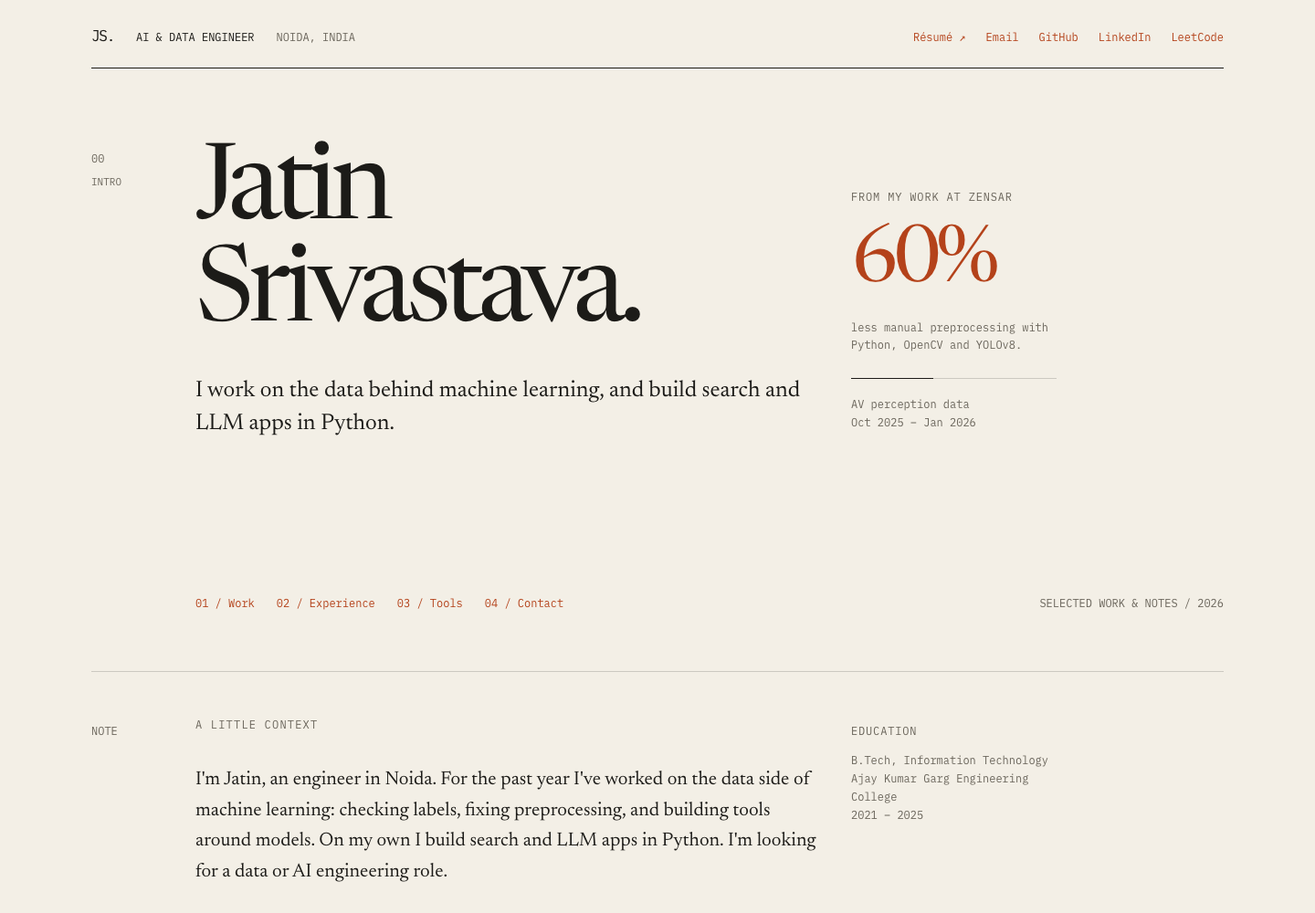
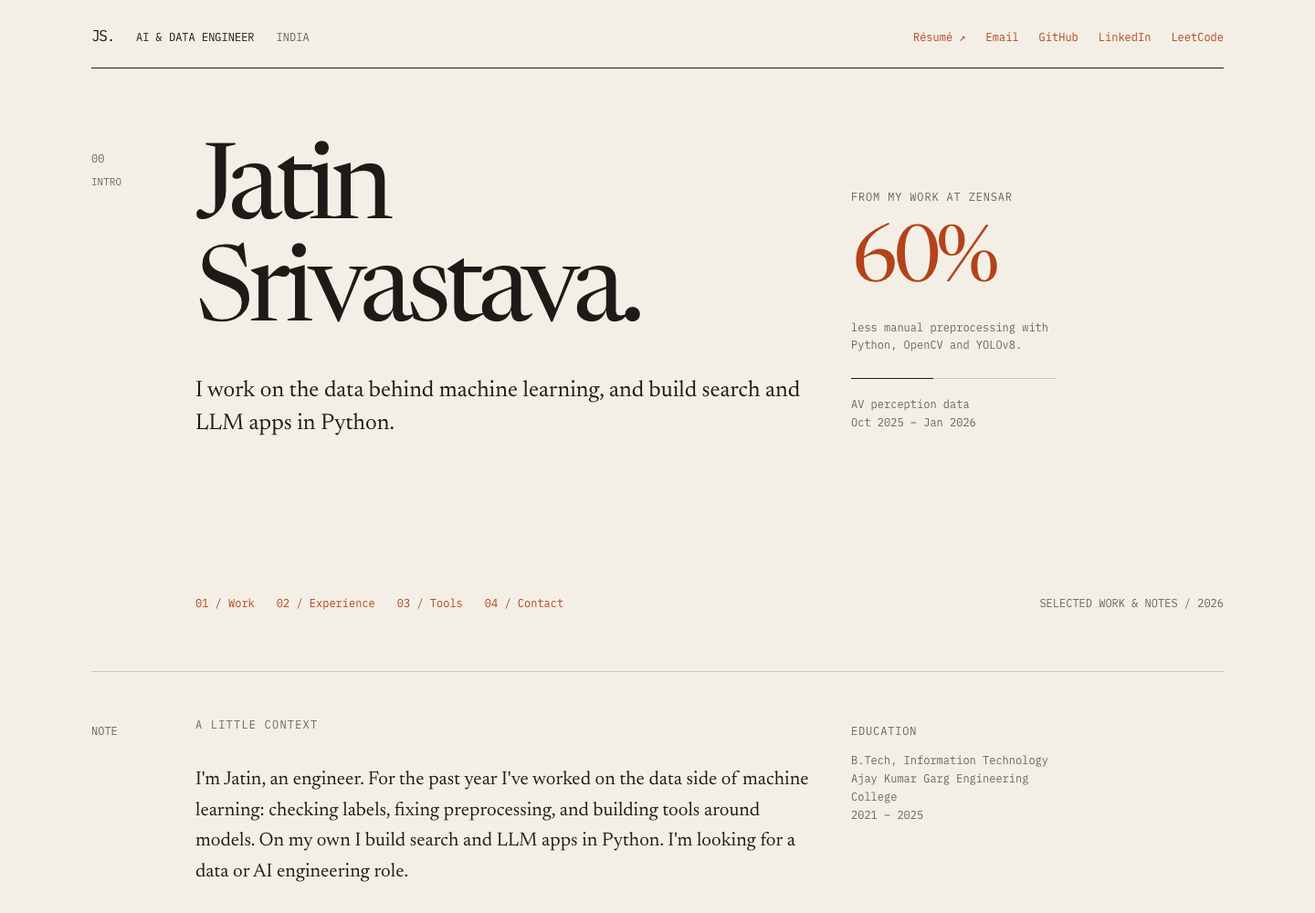
Remove Veltrix project and city references

Changed region(s): [[0.1562, 0.837, 0.625, 0.961]]

diff --git a/index.html b/index.html
@@ -4,11 +4,11 @@
   <meta charset="utf-8">
   <meta name="viewport" content="width=device-width, initial-scale=1">
   <title>Jatin Srivastava | AI &amp; Data Engineer</title>
-  <meta name="description" content="AI and data engineer in Noida. Selected work in computer vision, data validation, retrieval and LLM applications.">
+  <meta name="description" content="AI and data engineer. Selected work in computer vision, data validation, retrieval and LLM applications.">
   <meta name="theme-color" content="#f3efe6" media="(prefers-color-scheme: light)">
   <meta name="theme-color" content="#171613" media="(prefers-color-scheme: dark)">
   <meta property="og:title" content="Jatin Srivastava | AI &amp; Data Engineer">
-  <meta property="og:description" content="AI and data engineer in Noida. Selected work in computer vision, data validation, retrieval and LLM applications.">
+  <meta property="og:description" content="AI and data engineer. Selected work in computer vision, data validation, retrieval and LLM applications.">
   <meta property="og:type" content="website">
   <meta property="og:url" content="https://jatinsri25.github.io/">
   <meta property="og:site_name" content="Jatin Srivastava">
@@ -23,7 +23,7 @@
 <a class="skip-link" href="#main">Skip to content</a>
 <div class="sheet">
 <header class="site-header">
-  <div class="identity"><a class="initials" href="/" aria-label="JS. Jatin Srivastava, home">JS.</a><span>AI &amp; DATA ENGINEER</span><span class="location">NOIDA, INDIA</span></div>
+  <div class="identity"><a class="initials" href="/" aria-label="JS. Jatin Srivastava, home">JS.</a><span>AI &amp; DATA ENGINEER</span><span class="location">INDIA</span></div>
   <nav aria-label="Profile links">
     <a href="/assets/jatin-srivastava-resume.pdf">Résumé <span aria-hidden="true">↗</span></a>
     <a href="mailto:srivastavajatin9898@gmail.com">Email</a>
@@ -41,7 +41,7 @@
 </section>
 <section class="section grid" id="about" aria-labelledby="about-heading">
   <div class="index">NOTE</div>
-  <div class="main-col"><h2 class="eyebrow section-heading" id="about-heading">A little context</h2><p class="intro">I'm Jatin, an engineer in Noida. For the past year I've worked on the data side of machine learning: checking labels, fixing preprocessing, and building tools around models. On my own I build search and LLM apps in Python. I'm looking for a data or AI engineering role.</p></div>
+  <div class="main-col"><h2 class="eyebrow section-heading" id="about-heading">A little context</h2><p class="intro">I'm Jatin, an engineer. For the past year I've worked on the data side of machine learning: checking labels, fixing preprocessing, and building tools around models. On my own I build search and LLM apps in Python. I'm looking for a data or AI engineering role.</p></div>
   <aside class="note"><span class="note-label">Education</span><p>B.Tech, Information Technology<br>Ajay Kumar Garg Engineering College<br>2021 – 2025</p></aside>
 </section>
 <section class="section" id="projects" aria-labelledby="work-heading">
@@ -81,35 +81,24 @@
       </aside>
     </article><article class="project grid small-project">
       <div class="index project-number">04</div>
-      <div class="main-col"><p class="eyebrow">Agents / retrieval</p>
-        <h3><a href="/work/veltrix-ai.html">Veltrix AI <span aria-hidden="true">↗</span></a></h3>
-        <p class="project-text">I built a RAG app where agents share retrieval and reasoning work, with 95% retrieval accuracy across 10,000 documents and 60% less manual debugging.</p>
-        <p class="stack">LangChain, LangGraph, FAISS</p>
-        <div class="link-row"><a href="/work/veltrix-ai.html">Read project notes →</a><a href="https://github.com/jatinsri25">GitHub ↗</a></div>
-      </div>
-      <aside class="note"><span class="note-label">Field note / 04</span><p>Independent project. Evaluation figures from my project summary.</p>
-
-      </aside>
-    </article><article class="project grid small-project">
-      <div class="index project-number">05</div>
       <div class="main-col"><p class="eyebrow">Application engineering</p>
         <h3><a href="/work/ai-task-generator.html">AI Task Generator <span aria-hidden="true">↗</span></a></h3>
         <p class="project-text">I built an LLM task manager with Redis caching, p95 latency below 200 ms, and 95% test coverage in GitHub Actions.</p>
         <p class="stack">MERN, Gemini API, Redis, GitHub Actions</p>
         <div class="link-row"><a href="/work/ai-task-generator.html">Read project notes →</a><a href="https://github.com/jatinsri25/AI-todo-app/tree/main/TODO">GitHub ↗</a></div>
       </div>
-      <aside class="note"><span class="note-label">Field note / 05</span><p>Also listed as AI-Powered Task Manager in my earlier portfolio.</p>
+      <aside class="note"><span class="note-label">Field note / 04</span><p>Also listed as AI-Powered Task Manager in my earlier portfolio.</p>
 
       </aside>
     </article><article class="project grid small-project">
-      <div class="index project-number">06</div>
+      <div class="index project-number">05</div>
       <div class="main-col"><p class="eyebrow">Earlier work / real-time systems</p>
         <h3><a href="/work/quirkquack.html">QuirkQuack <span aria-hidden="true">↗</span></a></h3>
         <p class="project-text">I built a chat app with JWT-secured WebSocket connections and Redis Pub/Sub, handling 100+ concurrent connections with message delivery below 50 ms.</p>
         <p class="stack">React.js, Node.js, Socket.IO, MongoDB, Redis, JWT</p>
         <div class="link-row"><a href="/work/quirkquack.html">Read project notes →</a><a href="https://github.com/jatinsri25/QuirkQuack">GitHub ↗</a></div>
       </div>
-      <aside class="note"><span class="note-label">Field note / 06</span><p>Retained from my earlier portfolio and AI engineer résumé.</p>
+      <aside class="note"><span class="note-label">Field note / 05</span><p>Retained from my earlier portfolio and AI engineer résumé.</p>
 
       </aside>
     </article></div>
@@ -137,6 +126,6 @@
   <aside class="note"><span class="note-label">For a closer look</span><p><a href="/assets/jatin-srivastava-resume.pdf">Download my résumé (PDF)</a></p><p><a href="https://drive.google.com/file/d/19HStCQF_2NlCMDRQBuClxfxfMSFu_k2V/view?usp=sharing">Original Drive résumé ↗</a></p></aside>
 </section>
 </main>
-<footer class="site-footer"><span>Jatin Srivastava · Noida, India</span><div class="link-row"><a href="/links.html">Link index</a><a href="#top">Back to top ↑</a></div></footer></div>
+<footer class="site-footer"><span>Jatin Srivastava · India</span><div class="link-row"><a href="/links.html">Link index</a><a href="#top">Back to top ↑</a></div></footer></div>
 </body>
 </html>

diff --git a/work/quirkquack.html b/work/quirkquack.html
@@ -23,7 +23,7 @@
 <a class="skip-link" href="#main">Skip to content</a>
 <div class="sheet">
 <header class="site-header">
-  <div class="identity"><a class="initials" href="/" aria-label="JS. Jatin Srivastava, home">JS.</a><span>AI &amp; DATA ENGINEER</span><span class="location">NOIDA, INDIA</span></div>
+  <div class="identity"><a class="initials" href="/" aria-label="JS. Jatin Srivastava, home">JS.</a><span>AI &amp; DATA ENGINEER</span><span class="location">INDIA</span></div>
   <nav aria-label="Profile links">
     <a href="/assets/jatin-srivastava-resume.pdf">Résumé <span aria-hidden="true">↗</span></a>
     <a href="mailto:srivastavajatin9898@gmail.com">Email</a>
@@ -32,7 +32,7 @@
     <a href="https://leetcode.com/u/jatinsri25/">LeetCode</a>
   </nav>
 </header>
-<main id="main"><section class="case-hero grid"><div class="index">06<span>PROJECT</span></div><div class="main-col"><a class="mono" href="/#projects">← Selected work</a><p class="eyebrow case-category">Earlier work / real-time systems</p><h1>QuirkQuack.</h1><p class="lede">Real-time chat, across connections.</p><div class="link-row"><a href="https://github.com/jatinsri25/QuirkQuack">View repository ↗</a></div></div><aside class="note"><span class="note-label">Project notes / 06</span><p>React.js, Node.js, Socket.IO, MongoDB, Redis, JWT</p></aside></section><section class="section grid case-section"><div class="index">01</div><div class="main-col"><h2>Messages between connected clients.</h2><p>I built a WebSocket chat application handling 100+ concurrent connections with message delivery below 50 ms. I secured the handshakes with JWT validation and used a Redis Pub/Sub adapter across Node.js instances.</p><table class="spec"><tbody><tr><th scope="row">Client</th><td>React.js</td></tr><tr><th scope="row">Server</th><td>Node.js, Socket.IO</td></tr><tr><th scope="row">Persistence</th><td>MongoDB</td></tr><tr><th scope="row">Coordination</th><td>Redis Pub/Sub</td></tr><tr><th scope="row">Authentication</th><td>JWT</td></tr></tbody></table></div><aside class="note"><span class="note-label">Earlier work</span><p>Details and figures follow my AI engineer résumé.</p></aside></section><section class="section grid case-section"><div class="index">REF</div><div class="main-col"><h2>Project links.</h2><div class="link-row"><a href="https://github.com/jatinsri25/QuirkQuack">Source code ↗</a></div><details class="legacy-links"><summary>Original demo link (unverified)</summary><p class="note legacy-note">The earlier portfolio used a placeholder .demo address. It is preserved here for reference and is not a verified working demo.</p><p class="mono legacy-url"><a href="https://quirkquack.demo">https://quirkquack.demo</a></p></details></div></section><nav class="section grid next-study" aria-label="Next project"><span class="index">NEXT</span><div class="main-col"><a href="/work/neurolabel-ai.html">NeuroLabel AI →</a></div></nav></main>
-<footer class="site-footer"><span>Jatin Srivastava · Noida, India</span><div class="link-row"><a href="/links.html">Link index</a><a href="#top">Back to top ↑</a></div></footer></div>
+<main id="main"><section class="case-hero grid"><div class="index">05<span>PROJECT</span></div><div class="main-col"><a class="mono" href="/#projects">← Selected work</a><p class="eyebrow case-category">Earlier work / real-time systems</p><h1>QuirkQuack.</h1><p class="lede">Real-time chat, across connections.</p><div class="link-row"><a href="https://github.com/jatinsri25/QuirkQuack">View repository ↗</a></div></div><aside class="note"><span class="note-label">Project notes / 05</span><p>React.js, Node.js, Socket.IO, MongoDB, Redis, JWT</p></aside></section><section class="section grid case-section"><div class="index">01</div><div class="main-col"><h2>Messages between connected clients.</h2><p>I built a WebSocket chat application handling 100+ concurrent connections with message delivery below 50 ms. I secured the handshakes with JWT validation and used a Redis Pub/Sub adapter across Node.js instances.</p><table class="spec"><tbody><tr><th scope="row">Client</th><td>React.js</td></tr><tr><th scope="row">Server</th><td>Node.js, Socket.IO</td></tr><tr><th scope="row">Persistence</th><td>MongoDB</td></tr><tr><th scope="row">Coordination</th><td>Redis Pub/Sub</td></tr><tr><th scope="row">Authentication</th><td>JWT</td></tr></tbody></table></div><aside class="note"><span class="note-label">Earlier work</span><p>Details and figures follow my AI engineer résumé.</p></aside></section><section class="section grid case-section"><div class="index">REF</div><div class="main-col"><h2>Project links.</h2><div class="link-row"><a href="https://github.com/jatinsri25/QuirkQuack">Source code ↗</a></div><details class="legacy-links"><summary>Original demo link (unverified)</summary><p class="note legacy-note">The earlier portfolio used a placeholder .demo address. It is preserved here for reference and is not a verified working demo.</p><p class="mono legacy-url"><a href="https://quirkquack.demo">https://quirkquack.demo</a></p></details></div></section><nav class="section grid next-study" aria-label="Next project"><span class="index">NEXT</span><div class="main-col"><a href="/work/neurolabel-ai.html">NeuroLabel AI →</a></div></nav></main>
+<footer class="site-footer"><span>Jatin Srivastava · India</span><div class="link-row"><a href="/links.html">Link index</a><a href="#top">Back to top ↑</a></div></footer></div>
 </body>
 </html>

diff --git a/work/ai-task-generator.html b/work/ai-task-generator.html
@@ -23,7 +23,7 @@
 <a class="skip-link" href="#main">Skip to content</a>
 <div class="sheet">
 <header class="site-header">
-  <div class="identity"><a class="initials" href="/" aria-label="JS. Jatin Srivastava, home">JS.</a><span>AI &amp; DATA ENGINEER</span><span class="location">NOIDA, INDIA</span></div>
+  <div class="identity"><a class="initials" href="/" aria-label="JS. Jatin Srivastava, home">JS.</a><span>AI &amp; DATA ENGINEER</span><span class="location">INDIA</span></div>
   <nav aria-label="Profile links">
     <a href="/assets/jatin-srivastava-resume.pdf">Résumé <span aria-hidden="true">↗</span></a>
     <a href="mailto:srivastavajatin9898@gmail.com">Email</a>
@@ -32,7 +32,7 @@
     <a href="https://leetcode.com/u/jatinsri25/">LeetCode</a>
   </nav>
 </header>
-<main id="main"><section class="case-hero grid"><div class="index">05<span>PROJECT</span></div><div class="main-col"><a class="mono" href="/#projects">← Selected work</a><p class="eyebrow case-category">Application engineering</p><h1>AI Task Generator.</h1><p class="lede">An LLM-assisted task list.</p><div class="link-row"><a href="https://github.com/jatinsri25/AI-todo-app/tree/main/TODO">View repository ↗</a></div></div><aside class="note"><span class="note-label">Project notes / 05</span><p>MERN, Gemini API, Redis, GitHub Actions</p></aside></section><section class="section grid case-section"><div class="index">01</div><div class="main-col"><h2>From a prompt to a task list.</h2><p>I built a task manager that uses an LLM to generate tasks, with Redis caching, p95 latency below 200 ms and 95% test coverage running in GitHub Actions.</p><table class="spec"><tbody><tr><th scope="row">Application</th><td>MERN stack</td></tr><tr><th scope="row">Model API</th><td>Gemini API</td></tr><tr><th scope="row">Caching</th><td>Redis</td></tr><tr><th scope="row">Checks</th><td>Tests in GitHub Actions</td></tr></tbody></table></div><aside class="note"><span class="note-label">Measurement note</span><p>The load profile and coverage report are not supplied here. The figures come from my project summary.</p></aside></section><section class="section grid case-section"><div class="index">REF</div><div class="main-col"><h2>Project links.</h2><div class="link-row"><a href="https://github.com/jatinsri25/AI-todo-app/tree/main/TODO">Source code ↗</a></div><details class="legacy-links"><summary>Original demo link (unverified)</summary><p class="note legacy-note">The earlier portfolio used a placeholder .demo address. It is preserved here for reference and is not a verified working demo.</p><p class="mono legacy-url"><a href="https://ai-todo.demo">https://ai-todo.demo</a></p></details></div></section><nav class="section grid next-study" aria-label="Next project"><span class="index">NEXT</span><div class="main-col"><a href="/work/quirkquack.html">QuirkQuack →</a></div></nav></main>
-<footer class="site-footer"><span>Jatin Srivastava · Noida, India</span><div class="link-row"><a href="/links.html">Link index</a><a href="#top">Back to top ↑</a></div></footer></div>
+<main id="main"><section class="case-hero grid"><div class="index">04<span>PROJECT</span></div><div class="main-col"><a class="mono" href="/#projects">← Selected work</a><p class="eyebrow case-category">Application engineering</p><h1>AI Task Generator.</h1><p class="lede">An LLM-assisted task list.</p><div class="link-row"><a href="https://github.com/jatinsri25/AI-todo-app/tree/main/TODO">View repository ↗</a></div></div><aside class="note"><span class="note-label">Project notes / 04</span><p>MERN, Gemini API, Redis, GitHub Actions</p></aside></section><section class="section grid case-section"><div class="index">01</div><div class="main-col"><h2>From a prompt to a task list.</h2><p>I built a task manager that uses an LLM to generate tasks, with Redis caching, p95 latency below 200 ms and 95% test coverage running in GitHub Actions.</p><table class="spec"><tbody><tr><th scope="row">Application</th><td>MERN stack</td></tr><tr><th scope="row">Model API</th><td>Gemini API</td></tr><tr><th scope="row">Caching</th><td>Redis</td></tr><tr><th scope="row">Checks</th><td>Tests in GitHub Actions</td></tr></tbody></table></div><aside class="note"><span class="note-label">Measurement note</span><p>The load profile and coverage report are not supplied here. The figures come from my project summary.</p></aside></section><section class="section grid case-section"><div class="index">REF</div><div class="main-col"><h2>Project links.</h2><div class="link-row"><a href="https://github.com/jatinsri25/AI-todo-app/tree/main/TODO">Source code ↗</a></div><details class="legacy-links"><summary>Original demo link (unverified)</summary><p class="note legacy-note">The earlier portfolio used a placeholder .demo address. It is preserved here for reference and is not a verified working demo.</p><p class="mono legacy-url"><a href="https://ai-todo.demo">https://ai-todo.demo</a></p></details></div></section><nav class="section grid next-study" aria-label="Next project"><span class="index">NEXT</span><div class="main-col"><a href="/work/quirkquack.html">QuirkQuack →</a></div></nav></main>
+<footer class="site-footer"><span>Jatin Srivastava · India</span><div class="link-row"><a href="/links.html">Link index</a><a href="#top">Back to top ↑</a></div></footer></div>
 </body>
 </html>

diff --git a/work/prayaas.html b/work/prayaas.html
@@ -23,7 +23,7 @@
 <a class="skip-link" href="#main">Skip to content</a>
 <div class="sheet">
 <header class="site-header">
-  <div class="identity"><a class="initials" href="/" aria-label="JS. Jatin Srivastava, home">JS.</a><span>AI &amp; DATA ENGINEER</span><span class="location">NOIDA, INDIA</span></div>
+  <div class="identity"><a class="initials" href="/" aria-label="JS. Jatin Srivastava, home">JS.</a><span>AI &amp; DATA ENGINEER</span><span class="location">INDIA</span></div>
   <nav aria-label="Profile links">
     <a href="/assets/jatin-srivastava-resume.pdf">Résumé <span aria-hidden="true">↗</span></a>
     <a href="mailto:srivastavajatin9898@gmail.com">Email</a>
@@ -40,7 +40,7 @@
 <rect class="box" x="1" y="222" width="203" height="66"/><text x="17" y="246">04 / TOKEN BUDGET</text><text class="muted" x="17" y="270">Bound the context</text>
 <rect class="box" x="229" y="222" width="204" height="66"/><text x="245" y="246">05 / LLM FORMATTING</text><text class="muted" x="245" y="270">Structured JSON</text>
 <rect class="box" x="458" y="222" width="201" height="66"/><text x="474" y="246">06 / SUGGESTIONS</text><text class="muted" x="474" y="270">Suggested responses</text>
-<text class="muted" x="1" y="333">Gemini fallback chain: retry on HTTP 429 and 503.</text></svg><figcaption>Fig. 1 / The report pipeline. Each stage has a distinct responsibility before a ticket is returned.</figcaption></figure></div><aside class="note"><span class="note-label">Input handling</span><p>Checks and redaction happen before LLM formatting.</p></aside></section><section class="section grid case-section"><div class="index">03</div><div class="main-col"><h2>Handling an unavailable model API.</h2><p>I added a Gemini fallback chain that retries HTTP 429 and 503 errors. The reported request success rate is above <span class="case-proof">99%</span>.</p><p>That measures whether the API request succeeds. It is not a measure of ticket correctness.</p></div><aside class="note"><span class="note-label">Metric</span><p>Request success and answer quality are different checks.</p></aside></section><section class="section grid case-section"><div class="index">REF</div><div class="main-col"><h2>Project links.</h2><div class="link-row"><a href="https://github.com/jatinsri25">Source code ↗</a></div><details class="legacy-links"><summary>Original demo link (unverified)</summary><p class="note legacy-note">The earlier portfolio used a placeholder .demo address. It is preserved here for reference and is not a verified working demo.</p><p class="mono legacy-url"><a href="https://prayaas.demo">https://prayaas.demo</a></p></details></div></section><nav class="section grid next-study" aria-label="Next project"><span class="index">NEXT</span><div class="main-col"><a href="/work/veltrix-ai.html">Veltrix AI →</a></div></nav></main>
-<footer class="site-footer"><span>Jatin Srivastava · Noida, India</span><div class="link-row"><a href="/links.html">Link index</a><a href="#top">Back to top ↑</a></div></footer></div>
+<text class="muted" x="1" y="333">Gemini fallback chain: retry on HTTP 429 and 503.</text></svg><figcaption>Fig. 1 / The report pipeline. Each stage has a distinct responsibility before a ticket is returned.</figcaption></figure></div><aside class="note"><span class="note-label">Input handling</span><p>Checks and redaction happen before LLM formatting.</p></aside></section><section class="section grid case-section"><div class="index">03</div><div class="main-col"><h2>Handling an unavailable model API.</h2><p>I added a Gemini fallback chain that retries HTTP 429 and 503 errors. The reported request success rate is above <span class="case-proof">99%</span>.</p><p>That measures whether the API request succeeds. It is not a measure of ticket correctness.</p></div><aside class="note"><span class="note-label">Metric</span><p>Request success and answer quality are different checks.</p></aside></section><section class="section grid case-section"><div class="index">REF</div><div class="main-col"><h2>Project links.</h2><div class="link-row"><a href="https://github.com/jatinsri25">Source code ↗</a></div><details class="legacy-links"><summary>Original demo link (unverified)</summary><p class="note legacy-note">The earlier portfolio used a placeholder .demo address. It is preserved here for reference and is not a verified working demo.</p><p class="mono legacy-url"><a href="https://prayaas.demo">https://prayaas.demo</a></p></details></div></section><nav class="section grid next-study" aria-label="Next project"><span class="index">NEXT</span><div class="main-col"><a href="/work/ai-task-generator.html">AI Task Generator →</a></div></nav></main>
+<footer class="site-footer"><span>Jatin Srivastava · India</span><div class="link-row"><a href="/links.html">Link index</a><a href="#top">Back to top ↑</a></div></footer></div>
 </body>
 </html>

diff --git a/work/neurolabel-ai.html b/work/neurolabel-ai.html
@@ -23,7 +23,7 @@
 <a class="skip-link" href="#main">Skip to content</a>
 <div class="sheet">
 <header class="site-header">
-  <div class="identity"><a class="initials" href="/" aria-label="JS. Jatin Srivastava, home">JS.</a><span>AI &amp; DATA ENGINEER</span><span class="location">NOIDA, INDIA</span></div>
+  <div class="identity"><a class="initials" href="/" aria-label="JS. Jatin Srivastava, home">JS.</a><span>AI &amp; DATA ENGINEER</span><span class="location">INDIA</span></div>
   <nav aria-label="Profile links">
     <a href="/assets/jatin-srivastava-resume.pdf">Résumé <span aria-hidden="true">↗</span></a>
     <a href="mailto:srivastavajatin9898@gmail.com">Email</a>
@@ -40,6 +40,6 @@
 <rect class="box" x="480" y="30" width="179" height="70"/><text x="498" y="59">Human review</text><text class="muted" x="498" y="82">Konva canvas</text>
 <rect class="box" x="230" y="180" width="180" height="62"/><text x="249" y="205">FastAPI → SQLite</text><text class="muted" x="249" y="227">Save each edit</text>
 <rect class="box" x="480" y="180" width="179" height="62"/><text x="498" y="215">JSON label export</text></svg><figcaption>Fig. 1 / The original annotation workflow. The highlighted path is the saved-label export.</figcaption></figure></div><aside class="note"><span class="note-label">Design decision</span><p>The person reviewing the frame gets the final say.</p></aside></section><section class="section grid case-section" id="interface"><div class="index">03</div><div class="main-col"><h2>The review workspace.</h2><p>The repository now includes dataset audits, correction history and frozen releases. This is the actual repository screenshot, showing authored synthetic fixtures.</p></div><aside class="note"><span class="note-label">Image provenance</span><p><a href="https://github.com/jatinsri25/NeuroLabelAI/blob/main/dashboard_preview.png">Repository screenshot ↗</a></p></aside><figure class="full-figure screen-figure"><a class="screenshot-link" href="/assets/neurolabel-dashboard.png" aria-label="Open full-size NeuroLabel workspace screenshot"><img src="/assets/neurolabel-dashboard.png" width="1440" height="1370" loading="lazy" decoding="async" alt="NeuroLabel dataset review workspace showing synthetic frames, flagged annotations, class distribution and release blockers."></a><figcaption>Fig. 2 / NeuroLabel's current review interface. The pictured counts describe synthetic fixtures, not a real driving dataset.</figcaption></figure></section><section class="section grid case-section"><div class="index">04</div><div class="main-col"><h2>What the evidence does and does not show.</h2><p>The current repository reports <span class="mono">0.0000</span> held-out mAP for its fixture detectors, and the promotion gate blocks the candidate. The run checks that the pipeline executes; it does not establish useful detection or reduced annotation cost. Real KITTI results are not measured.</p><p><a href="https://github.com/jatinsri25/NeuroLabelAI/blob/main/docs/RESULTS.md">Read the recorded experiment results ↗</a></p></div><aside class="note"><span class="note-label">Boundary</span><p>This personal project is separate from my work at Zensar.</p></aside></section><section class="section grid case-section"><div class="index">REF</div><div class="main-col"><h2>Project links.</h2><div class="link-row"><a href="https://github.com/jatinsri25/NeuroLabelAI">Source code ↗</a><a href="https://github.com/jatinsri25/AV-labeller">Original repository link ↗</a></div><details class="legacy-links"><summary>Original demo link (unverified)</summary><p class="note legacy-note">The earlier portfolio used a placeholder .demo address. It is preserved here for reference and is not a verified working demo.</p><p class="mono legacy-url"><a href="https://neurolabel.demo">https://neurolabel.demo</a></p></details></div></section><nav class="section grid next-study" aria-label="Next project"><span class="index">NEXT</span><div class="main-col"><a href="/work/rag-it.html">RAG-IT →</a></div></nav></main>
-<footer class="site-footer"><span>Jatin Srivastava · Noida, India</span><div class="link-row"><a href="/links.html">Link index</a><a href="#top">Back to top ↑</a></div></footer></div>
+<footer class="site-footer"><span>Jatin Srivastava · India</span><div class="link-row"><a href="/links.html">Link index</a><a href="#top">Back to top ↑</a></div></footer></div>
 </body>
 </html>

diff --git a/links.html b/links.html
@@ -23,7 +23,7 @@
 <a class="skip-link" href="#main">Skip to content</a>
 <div class="sheet">
 <header class="site-header">
-  <div class="identity"><a class="initials" href="/" aria-label="JS. Jatin Srivastava, home">JS.</a><span>AI &amp; DATA ENGINEER</span><span class="location">NOIDA, INDIA</span></div>
+  <div class="identity"><a class="initials" href="/" aria-label="JS. Jatin Srivastava, home">JS.</a><span>AI &amp; DATA ENGINEER</span><span class="location">INDIA</span></div>
   <nav aria-label="Profile links">
     <a href="/assets/jatin-srivastava-resume.pdf">Résumé <span aria-hidden="true">↗</span></a>
     <a href="mailto:srivastavajatin9898@gmail.com">Email</a>
@@ -33,6 +33,6 @@
   </nav>
 </header>
 <main id="main"><section class="case-hero grid"><div class="index">REF</div><div class="main-col"><a class="mono" href="/">← Home</a><h1>Link index.</h1><p class="lede">Profile, source and reference links from both versions of my portfolio.</p></div></section><section class="section grid case-section"><div class="index">01</div><div class="main-col"><h2>Profiles and project sources.</h2><ul><li><a href="https://github.com/jatinsri25">GitHub</a></li><li><a href="https://linkedin.com/in/jatinsri25">LinkedIn</a></li><li><a href="https://www.linkedin.com/in/jatinsri25/">LinkedIn (earlier URL)</a></li><li><a href="mailto:srivastavajatin9898@gmail.com">Email</a></li><li><a href="https://leetcode.com/u/jatinsri25/">LeetCode</a></li><li><a href="https://drive.google.com/file/d/19HStCQF_2NlCMDRQBuClxfxfMSFu_k2V/view?usp=sharing">Original Drive résumé</a></li><li><a href="https://drive.google.com/file/d/1dOUrrJRjajqesPOk8eTbcre2Bq1i_LW9/view?usp=sharing">Earlier Drive résumé</a></li><li><a href="https://github.com/jatinsri25/AV-labeller">NeuroLabel original repository</a></li><li><a href="https://github.com/jatinsri25/RAG-IT">RAG-IT</a></li><li><a href="https://github.com/jatinsri25/AI-todo-app/tree/main/TODO">AI Task Generator</a></li><li><a href="https://github.com/jatinsri25/QuirkQuack">QuirkQuack</a></li><li><a href="https://github.com/jatinsri25/Maj/tree/main/Major%20Project">Decentralized Voting System</a></li><li><a href="https://github.com/jatinsri25/Job-Seeking-Website">Job Seeking Application</a></li><li><a href="https://jatinsri25.github.io/">GitHub Pages site</a></li><li><a href="https://jatinsri.vercel.app/">Résumé portfolio URL</a></li><li><a href="https://portfolio-jatin-srivastavas-projects-4aa3e419.vercel.app">Original Vercel URL</a></li></ul></div></section><section class="section grid case-section"><div class="index">02</div><div class="main-col"><h2>Original placeholder destinations.</h2><p>These links were present in the earlier site. They are kept for reference, but the demo addresses are unverified and the social link does not identify a personal profile.</p><ul><li><a href="https://neurolabel.demo">NeuroLabel demo</a></li><li><a href="https://ai-todo.demo">Task Manager demo</a></li><li><a href="https://prayaas.demo">Prayaas demo</a></li><li><a href="https://rag-it.demo">RAG-IT demo</a></li><li><a href="https://quirkquack.demo">QuirkQuack demo</a></li><li><a href="https://twitter.com">X / Twitter (generic destination)</a></li><li><a href="https://github.com">Earlier generic demo destination</a></li></ul></div></section></main>
-<footer class="site-footer"><span>Jatin Srivastava · Noida, India</span><div class="link-row"><a href="/links.html">Link index</a><a href="#top">Back to top ↑</a></div></footer></div>
+<footer class="site-footer"><span>Jatin Srivastava · India</span><div class="link-row"><a href="/links.html">Link index</a><a href="#top">Back to top ↑</a></div></footer></div>
 </body>
 </html>

diff --git a/work/rag-it.html b/work/rag-it.html
@@ -23,7 +23,7 @@
 <a class="skip-link" href="#main">Skip to content</a>
 <div class="sheet">
 <header class="site-header">
-  <div class="identity"><a class="initials" href="/" aria-label="JS. Jatin Srivastava, home">JS.</a><span>AI &amp; DATA ENGINEER</span><span class="location">NOIDA, INDIA</span></div>
+  <div class="identity"><a class="initials" href="/" aria-label="JS. Jatin Srivastava, home">JS.</a><span>AI &amp; DATA ENGINEER</span><span class="location">INDIA</span></div>
   <nav aria-label="Profile links">
     <a href="/assets/jatin-srivastava-resume.pdf">Résumé <span aria-hidden="true">↗</span></a>
     <a href="mailto:srivastavajatin9898@gmail.com">Email</a>
@@ -44,6 +44,6 @@
 <text class="muted" x="472" y="235">Weak context:</text><text class="muted" x="472" y="254">rewrite + retry</text>
 <text class="muted" x="28" y="420">PII redaction and injection checks at ingestion and inference.</text>
 </svg><figcaption>Fig. 1 / Query path. The accent stroke shows the corrective loop when retrieved context is weak.</figcaption></figure></div><aside class="note"><span class="note-label">Read the diagram</span><p>The retry is conditional on retrieval quality.</p></aside></section><section class="section grid case-section"><div class="index">03</div><div class="main-col"><h2>Safety checks and evaluation.</h2><p>I added PII redaction and prompt-injection checks at ingestion and inference. I evaluated answer faithfulness and citation accuracy with RAGAS and an LLM judge.</p><p>I have not supplied a numerical benchmark for this project here. The repository is the place to inspect the implementation and evaluation harness.</p></div><aside class="note"><span class="note-label">Evidence</span><p>RAGAS and an LLM judge assess the generated answers.</p></aside></section><section class="section grid case-section"><div class="index">REF</div><div class="main-col"><h2>Project links.</h2><div class="link-row"><a href="https://github.com/jatinsri25/RAG-IT">Source code ↗</a></div><details class="legacy-links"><summary>Original demo link (unverified)</summary><p class="note legacy-note">The earlier portfolio used a placeholder .demo address. It is preserved here for reference and is not a verified working demo.</p><p class="mono legacy-url"><a href="https://rag-it.demo">https://rag-it.demo</a></p></details></div></section><nav class="section grid next-study" aria-label="Next project"><span class="index">NEXT</span><div class="main-col"><a href="/work/prayaas.html">Prayaas →</a></div></nav></main>
-<footer class="site-footer"><span>Jatin Srivastava · Noida, India</span><div class="link-row"><a href="/links.html">Link index</a><a href="#top">Back to top ↑</a></div></footer></div>
+<footer class="site-footer"><span>Jatin Srivastava · India</span><div class="link-row"><a href="/links.html">Link index</a><a href="#top">Back to top ↑</a></div></footer></div>
 </body>
 </html>

diff --git a/404.html b/404.html
@@ -23,7 +23,7 @@
 <a class="skip-link" href="#main">Skip to content</a>
 <div class="sheet">
 <header class="site-header">
-  <div class="identity"><a class="initials" href="/" aria-label="JS. Jatin Srivastava, home">JS.</a><span>AI &amp; DATA ENGINEER</span><span class="location">NOIDA, INDIA</span></div>
+  <div class="identity"><a class="initials" href="/" aria-label="JS. Jatin Srivastava, home">JS.</a><span>AI &amp; DATA ENGINEER</span><span class="location">INDIA</span></div>
   <nav aria-label="Profile links">
     <a href="/assets/jatin-srivastava-resume.pdf">Résumé <span aria-hidden="true">↗</span></a>
     <a href="mailto:srivastavajatin9898@gmail.com">Email</a>
@@ -33,6 +33,6 @@
   </nav>
 </header>
 <main id="main" class="error-page"><p class="eyebrow">404 / Page not found</p><h1>A missing page.</h1><p><a href="/">Return to the notebook →</a></p></main>
-<footer class="site-footer"><span>Jatin Srivastava · Noida, India</span><div class="link-row"><a href="/links.html">Link index</a><a href="#top">Back to top ↑</a></div></footer></div>
+<footer class="site-footer"><span>Jatin Srivastava · India</span><div class="link-row"><a href="/links.html">Link index</a><a href="#top">Back to top ↑</a></div></footer></div>
 </body>
 </html>

diff --git a/docs/content-notes.md b/docs/content-notes.md
@@ -4,10 +4,10 @@
 - Four supplied resume PDFs were inspected. The two files named “Jatin Srivastava AI Engineer Resume…” have the same extracted content. That version is included unchanged as `assets/jatin-srivastava-resume.pdf`.
 - The user explicitly selected the resume figures when asked about conflicting metrics: 60% less manual preprocessing and 22% higher engagement. The work history uses the resumes' Oct 2025–Jan 2026 end date and ML Data Engineer & Analyst title.
 - The brief's annotation accuracy change (73% to 98%) and 99.9% uptime are omitted because the supplied resumes do not corroborate them. The hero uses the resume's preprocessing result.
-- The full introductory paragraph is preserved from the supplied brief. There are no invented project dates.
+- The introductory paragraph follows the supplied brief, with the city mention removed at the user's request. There are no invented project dates.
 - Tools follow the supplied brief; Apache Spark is explicitly identified as studied rather than used at work.
 - QuirkQuack is retained from the earlier site and resume. Its technical description uses the resume's MongoDB/Redis stack rather than mixing it with the earlier site's Prisma/PostgreSQL version.
-- Veltrix and task-generator measurements come from the supplied project brief. Their case studies explicitly identify the absence of a supplied evaluation protocol, load profile or raw report.
+- Task-generator measurements come from the supplied project brief. Its case study explicitly identifies the absence of a supplied load profile or raw report.
 - NeuroLabel's screenshot was retrieved from `jatinsri25/NeuroLabelAI/main/dashboard_preview.png`. Its current README and `docs/RESULTS.md` distinguish synthetic fixture runs from real KITTI measurements. The case study labels the screenshot accordingly and reports the blocked promotion / zero mAP limitation without implying production results.
 - The original NeuroLabel annotation workflow is distinguished from the current dataset review interface.
 - Original project, profile and resume destinations are preserved in `links.html` and `docs/preserved-links.json`. `.demo` addresses are identified as unverified placeholder destinations rather than advertised as live demos. The earlier generic Twitter destination is likewise labeled.

diff --git a/docs/validation.md b/docs/validation.md
@@ -21,6 +21,10 @@ Lighthouse used its default mobile emulation against the local HTTP preview. The
 - `npm run check`, `npm run build` and `git diff --check` pass.
 - The external `.demo` destinations remain unverified placeholders, clearly labeled as such. Preservation of external URLs is checked; availability of all third-party destinations is not guaranteed.
 
+## Content update, 21 October 2026
+
+The portfolio now has five projects and eight HTML pages. After the requested project and city removal, checked all eight pages at 360 and 1440 pixels: no removed text, missing project navigation or horizontal overflow. Verified the removed project route returns 404, the remaining project numbers are consecutive, and the next-project link from Prayaas opens AI Task Generator. All 102 local references and the build pass. The Lighthouse and axe results above describe the original 20 October audit; they were not rerun for this content-only update. Preview captures below are current.
+
 ## Preview captures
 
 ![Desktop home](preview-desktop.png)

diff --git a/README.md b/README.md
@@ -25,7 +25,7 @@ Stop the development server before starting the preview on the same port. The ch
 ## Editing
 
 - `index.html`: introduction, projects, experience, tools and contact.
-- `work/*.html`: six standalone project notes.
+- `work/*.html`: five standalone project notes.
 - `styles.css`: shared styles, responsive layouts, dark mode and print.
 - `links.html`: current and earlier profile, resume and project destinations.
 - `assets/`: local fonts, font licenses, actual NeuroLabel screenshot and supplied resume PDF.
